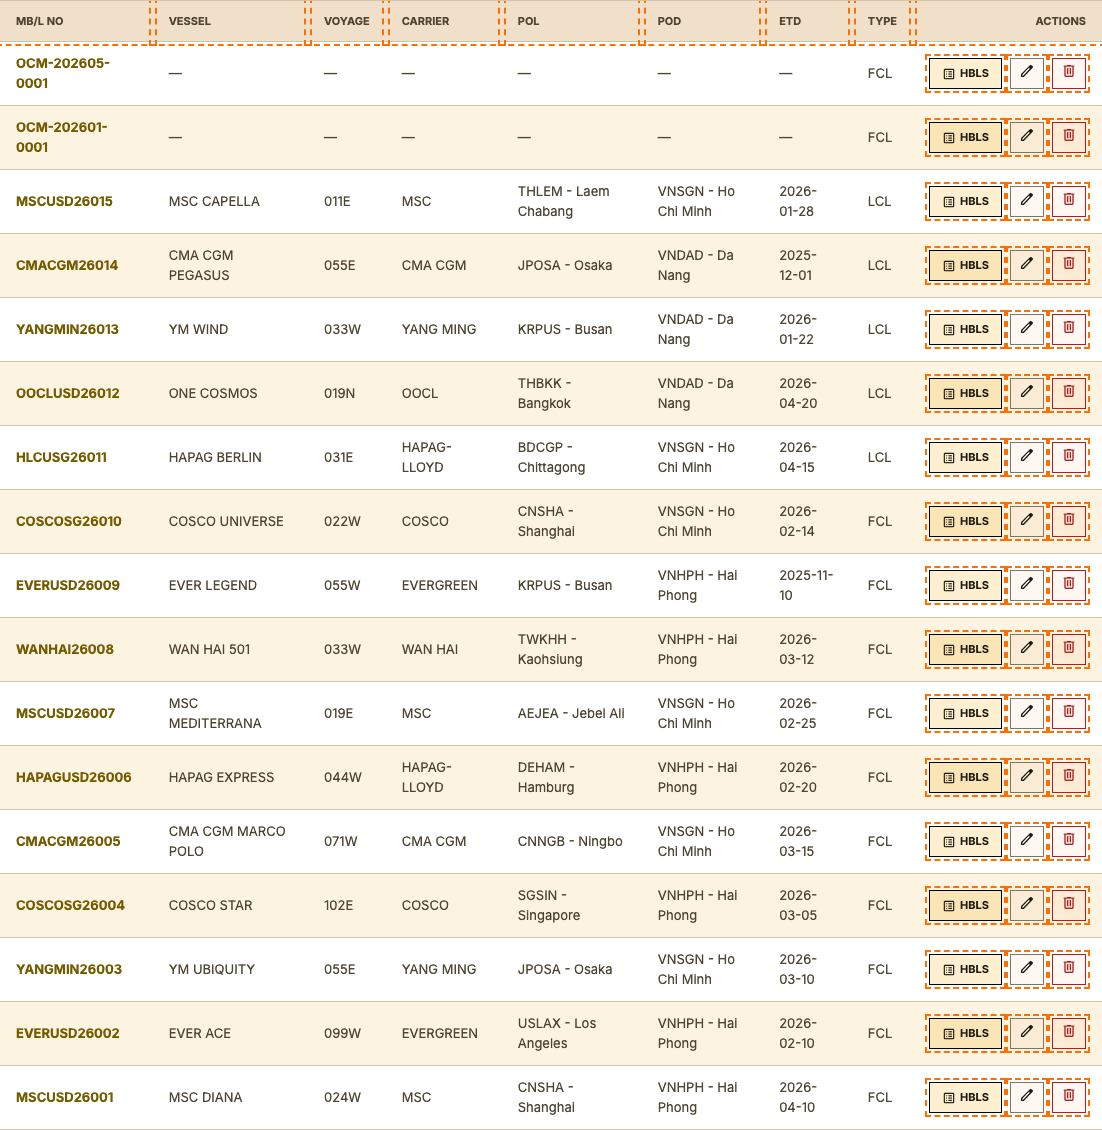
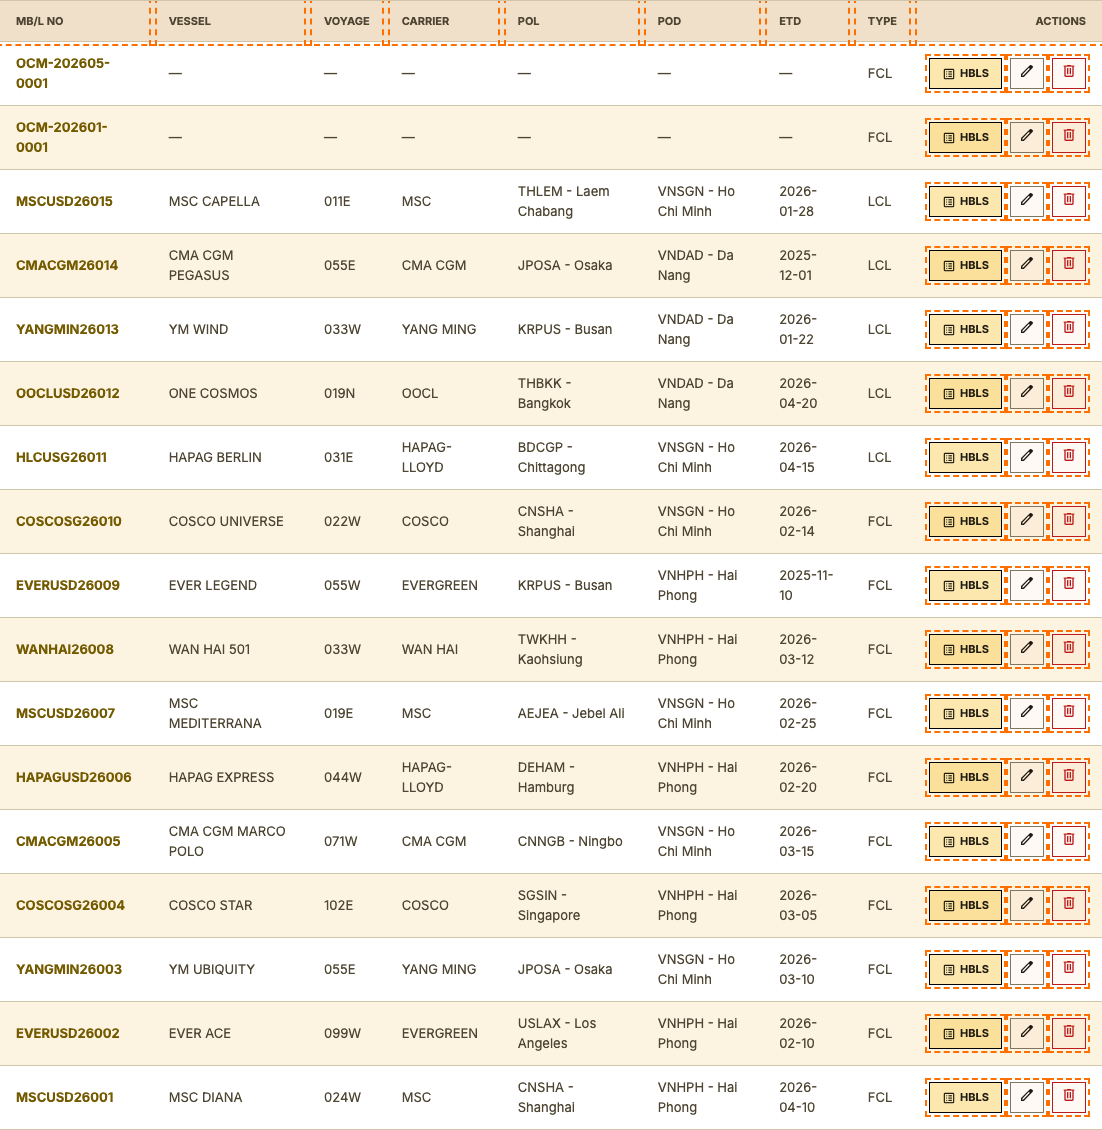
docs: infer system-generated read-only fields in BRD semantics

diff --git a/docs/ocean-export/hbl.md b/docs/ocean-export/hbl.md
@@ -26,13 +26,12 @@ _Submit empty HBL form to capture required-field error state._
 6. Date fields only accept valid date input (ISO YYYY-MM-DD) and do not accept free-form text.
 
 ## Validation Rules
-1. **HB/L No.*** (`name="hbl_no"`) must not be empty; form must block submission and highlight the field with an error message.
-2. **Actual Shipper*** (`name="actual_shipper_id"`) must not be empty; form must block submission and highlight the field with an error message.
+1. **Actual Shipper*** (`name="actual_shipper_id"`) must not be empty; form must block submission and highlight the field with an error message.
 
 ## Field Semantics
 | Label | Name | Required | Business Meaning | Allowed Values / Format | Data Source / Reference |
 |---|---|---|---|---|---|
-| HB/L No.* | `hbl_no` | No | The House Bill of Lading number — the customer-facing document reference used by the shipper and consignee for all correspondence and customs clearance. | Free text | Entered directly by the user and stored in the shipment record. |
+| HB/L No.* | `hbl_no` | No | System-generated House BL number. This field is read-only and assigned automatically by the application. | System-generated (read-only) | Generated and maintained by the application; not entered by users. |
 | Booking No. | `booking_no` | No | The booking or reservation reference number assigned at the time the space was confirmed. | Free text | Entered directly by the user and stored in the shipment record. |
 | AMS No. | `ams_no` | No | Automated Manifest System (AMS) filing number submitted to U.S. Customs. Required for all cargo destined for or transiting through the United States. | Free text | Entered directly by the user and stored in the shipment record. |
 | ISF No. | `isf_no` | No | Importer Security Filing (ISF / 10+2) number filed with U.S. Customs. Must be submitted at least 24 hours before cargo is loaded at origin. | Free text | Entered directly by the user and stored in the shipment record. |
@@ -41,7 +40,7 @@ _Submit empty HBL form to capture required-field error state._
 | Quotation No. | `quotation_no` | No | The sales quotation number that was accepted and led to this booking. | Free text | Entered directly by the user and stored in the shipment record. |
 | Actual Shipper* | `actual_shipper_id` | No | The company or individual physically shipping the goods — the exporter of record on customs documents. | Free text | Trade Partner lookup — internal partner database (GET /trade-partners/). Search by company name or partner code. New partners must be created in the Trade Partners module first. |
 | B/L Type | `bl_type` | No | Defines the commercial arrangement for how this Bill of Lading is structured and billed — e.g., whether it is a direct shipment, a consolidation, or a co-load. | CARRIER BUYER CONSOL, CO-LOAD, CONSOL, DIRECT, DIRECT TRIANGLE, FORWARDING, NORMAL, THIRD PARTY, TRIANGLE | Fixed dropdown list configured in the application. |
-| File No. | `file_no` | No | Internal job number automatically assigned by the system when the record is first saved. Used for cross-referencing invoices, correspondence, and reports. | Free text | Entered directly by the user and stored in the shipment record. |
+| File No. | `file_no` | No | System-generated value. This field is read-only and populated by the application. | System-generated (read-only) | Generated and maintained by the application; not entered by users. |
 | Post Date | `post_date` | No | The date this document is officially recorded in the system. Defaults to today. | Date (YYYY-MM-DD) | Entered directly by the user and stored in the shipment record. |
 | Express B/L | `express_bl` | No | Express B/L. | Yes / No | Entered directly by the user and stored in the shipment record. |
 | Sub Agent B/L | `sub_agent_bl` | No | Sub Agent B/L. | Yes / No | Entered directly by the user and stored in the shipment record. |

diff --git a/docs/ocean-export/mbl.md b/docs/ocean-export/mbl.md
@@ -30,13 +30,12 @@ _Submit empty MBL form to capture required-field error state._
 6. Date fields only accept valid date input (ISO YYYY-MM-DD) and do not accept free-form text.
 
 ## Validation Rules
-1. **MB/L No.*** (`name="mbl_no"`) must not be empty; form must block submission and highlight the field with an error message.
-2. **Office*** (`name="office"`) must not be empty; form must block submission and highlight the field with an error message.
+1. **Office*** (`name="office"`) must not be empty; form must block submission and highlight the field with an error message.
 
 ## Field Semantics
 | Label | Name | Required | Business Meaning | Allowed Values / Format | Data Source / Reference |
 |---|---|---|---|---|---|
-| MB/L No.* | `mbl_no` | No | The carrier's official shipment reference number as it appears on the Master Bill of Lading. Must match the booking confirmation issued by the shipping line. | Free text | Entered directly by the user and stored in the shipment record. |
+| MB/L No.* | `mbl_no` | No | System-generated Master BL number. This field is read-only and assigned automatically by the application. | System-generated (read-only) | Generated and maintained by the application; not entered by users. |
 | Office* | `office` | No | The Soleil branch office responsible for filing and managing this shipment. | Free text | Entered directly by the user and stored in the shipment record. |
 | B/L Type | `bl_type` | No | Defines the commercial arrangement for how this Bill of Lading is structured and billed — e.g., whether it is a direct shipment, a consolidation, or a co-load. | CARRIER BUYER CONSOL, CO-LOAD, CONSOL, DIRECT, DIRECT TRIANGLE, FORWARDING, NORMAL, THIRD PARTY, TRIANGLE | Fixed dropdown list configured in the application. |
 | Carrier Bkg. No. | `carrier_bkg_no` | No | The booking confirmation number provided by the carrier (shipping line). Confirms that space has been reserved on the vessel. | Free text | Entered directly by the user and stored in the shipment record. |